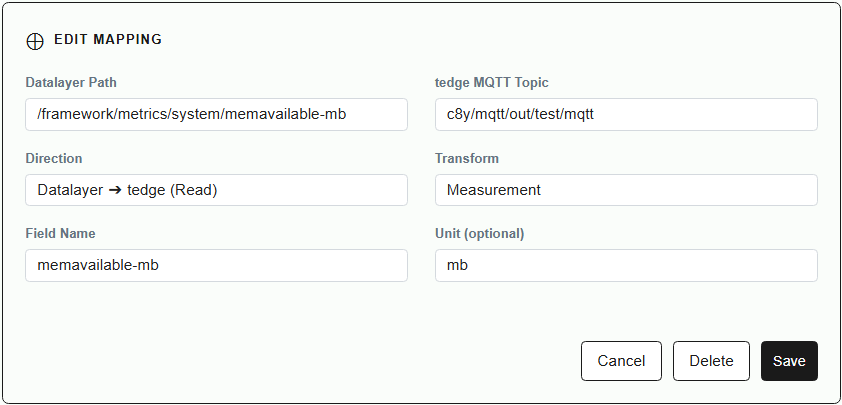
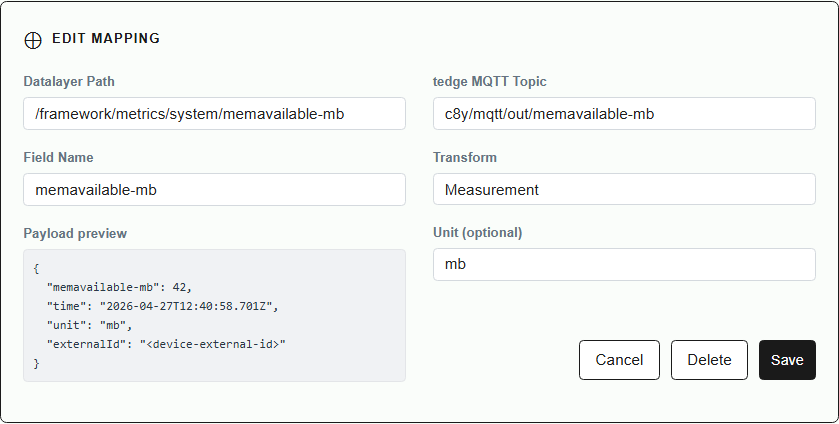
docs: update manual with new mapping form screenshots and descriptions

diff --git a/docs/manual.md b/docs/manual.md
@@ -406,11 +406,9 @@ Manage the license required to run this snap.
 **Required license**: `SWL-XCx-RUN-DLACCESSNRTxx-NNNN`  
 **Trial license**: `SWL_XCR_ENGINEERING_4H` (4-hour engineering license, no purchase required)
 
-If no valid license is held, a **red warning banner** appears at the top of the page:
+If no valid license is held, a **red warning banner** appears at the top of the page.
 
-> **Screenshot**: Red license warning banner
->
-> ![screenshot](pictures/10b-license-warning.png)
+
 
 ---
 
@@ -442,24 +440,8 @@ Save screenshots to: `docs/pictures/`
 
 | File | Section | What to show |
 |---|---|---|
-| `00-overview.png` | Full page | Sidebar + first section visible |
-| `01-connection-status.png` | Connection Status | All service indicators |
-| `02-cloud-configuration.png` | Cloud Configuration | All three tabs (C8y / AWS / Azure) |
-| `02b-c8y-config.png` | C8y tab | URL + MQTT port filled in |
-| `03-device-certificate.png` | Device Certificate | Device ID + upload status |
-| `04-connect-device.png` | Connect Device | Connect/Disconnect buttons |
-| `05-logs-diagnostics.png` | Logs & Diagnostics | Service dropdown + log output |
-| `06-device-configuration.png` | Device Configuration | Fields filled in |
-| `07-tedge-configuration.png` | Tedge Configuration | `tedge config list` output |
-| `08-configuration-files.png` | Configuration Files | File list |
-| `08b-file-editor.png` | Configuration Files | Editor open with a file |
-| `09-datalayer-overview.png` | Datalayer section | Full section |
-| `09a-connection-settings.png` | Connection Settings | Accordion open, fields filled |
-| `09b-node-browser.png` | Node Browser | Tree expanded with nodes |
-| `09c-mapping-form-measurement.png` | Mapping Form | Measurement transform |
-| `09d-mapping-form-event.png` | Mapping Form | Event transform |
-| `09e-mapping-form-alarm.png` | Mapping Form | Alarm transform |
-| `09f-mapping-table.png` | Mapping Table | Several rows visible |
-| `10-licensing.png` | Licensing | License list |
-| `10b-license-warning.png` | License Warning | Red banner at top of page |
-| `11-system-information.png` | System Information | All fields |
+| `09c-mapping-form-measurement.png` | Mapping Form | no |
+| `09d-mapping-form-event.png` | Mapping Form | no |
+| `09e-mapping-form-alarm.png` | Mapping Form | no |
+| `09f-mapping-table.png` | Mapping Table | no |
+
